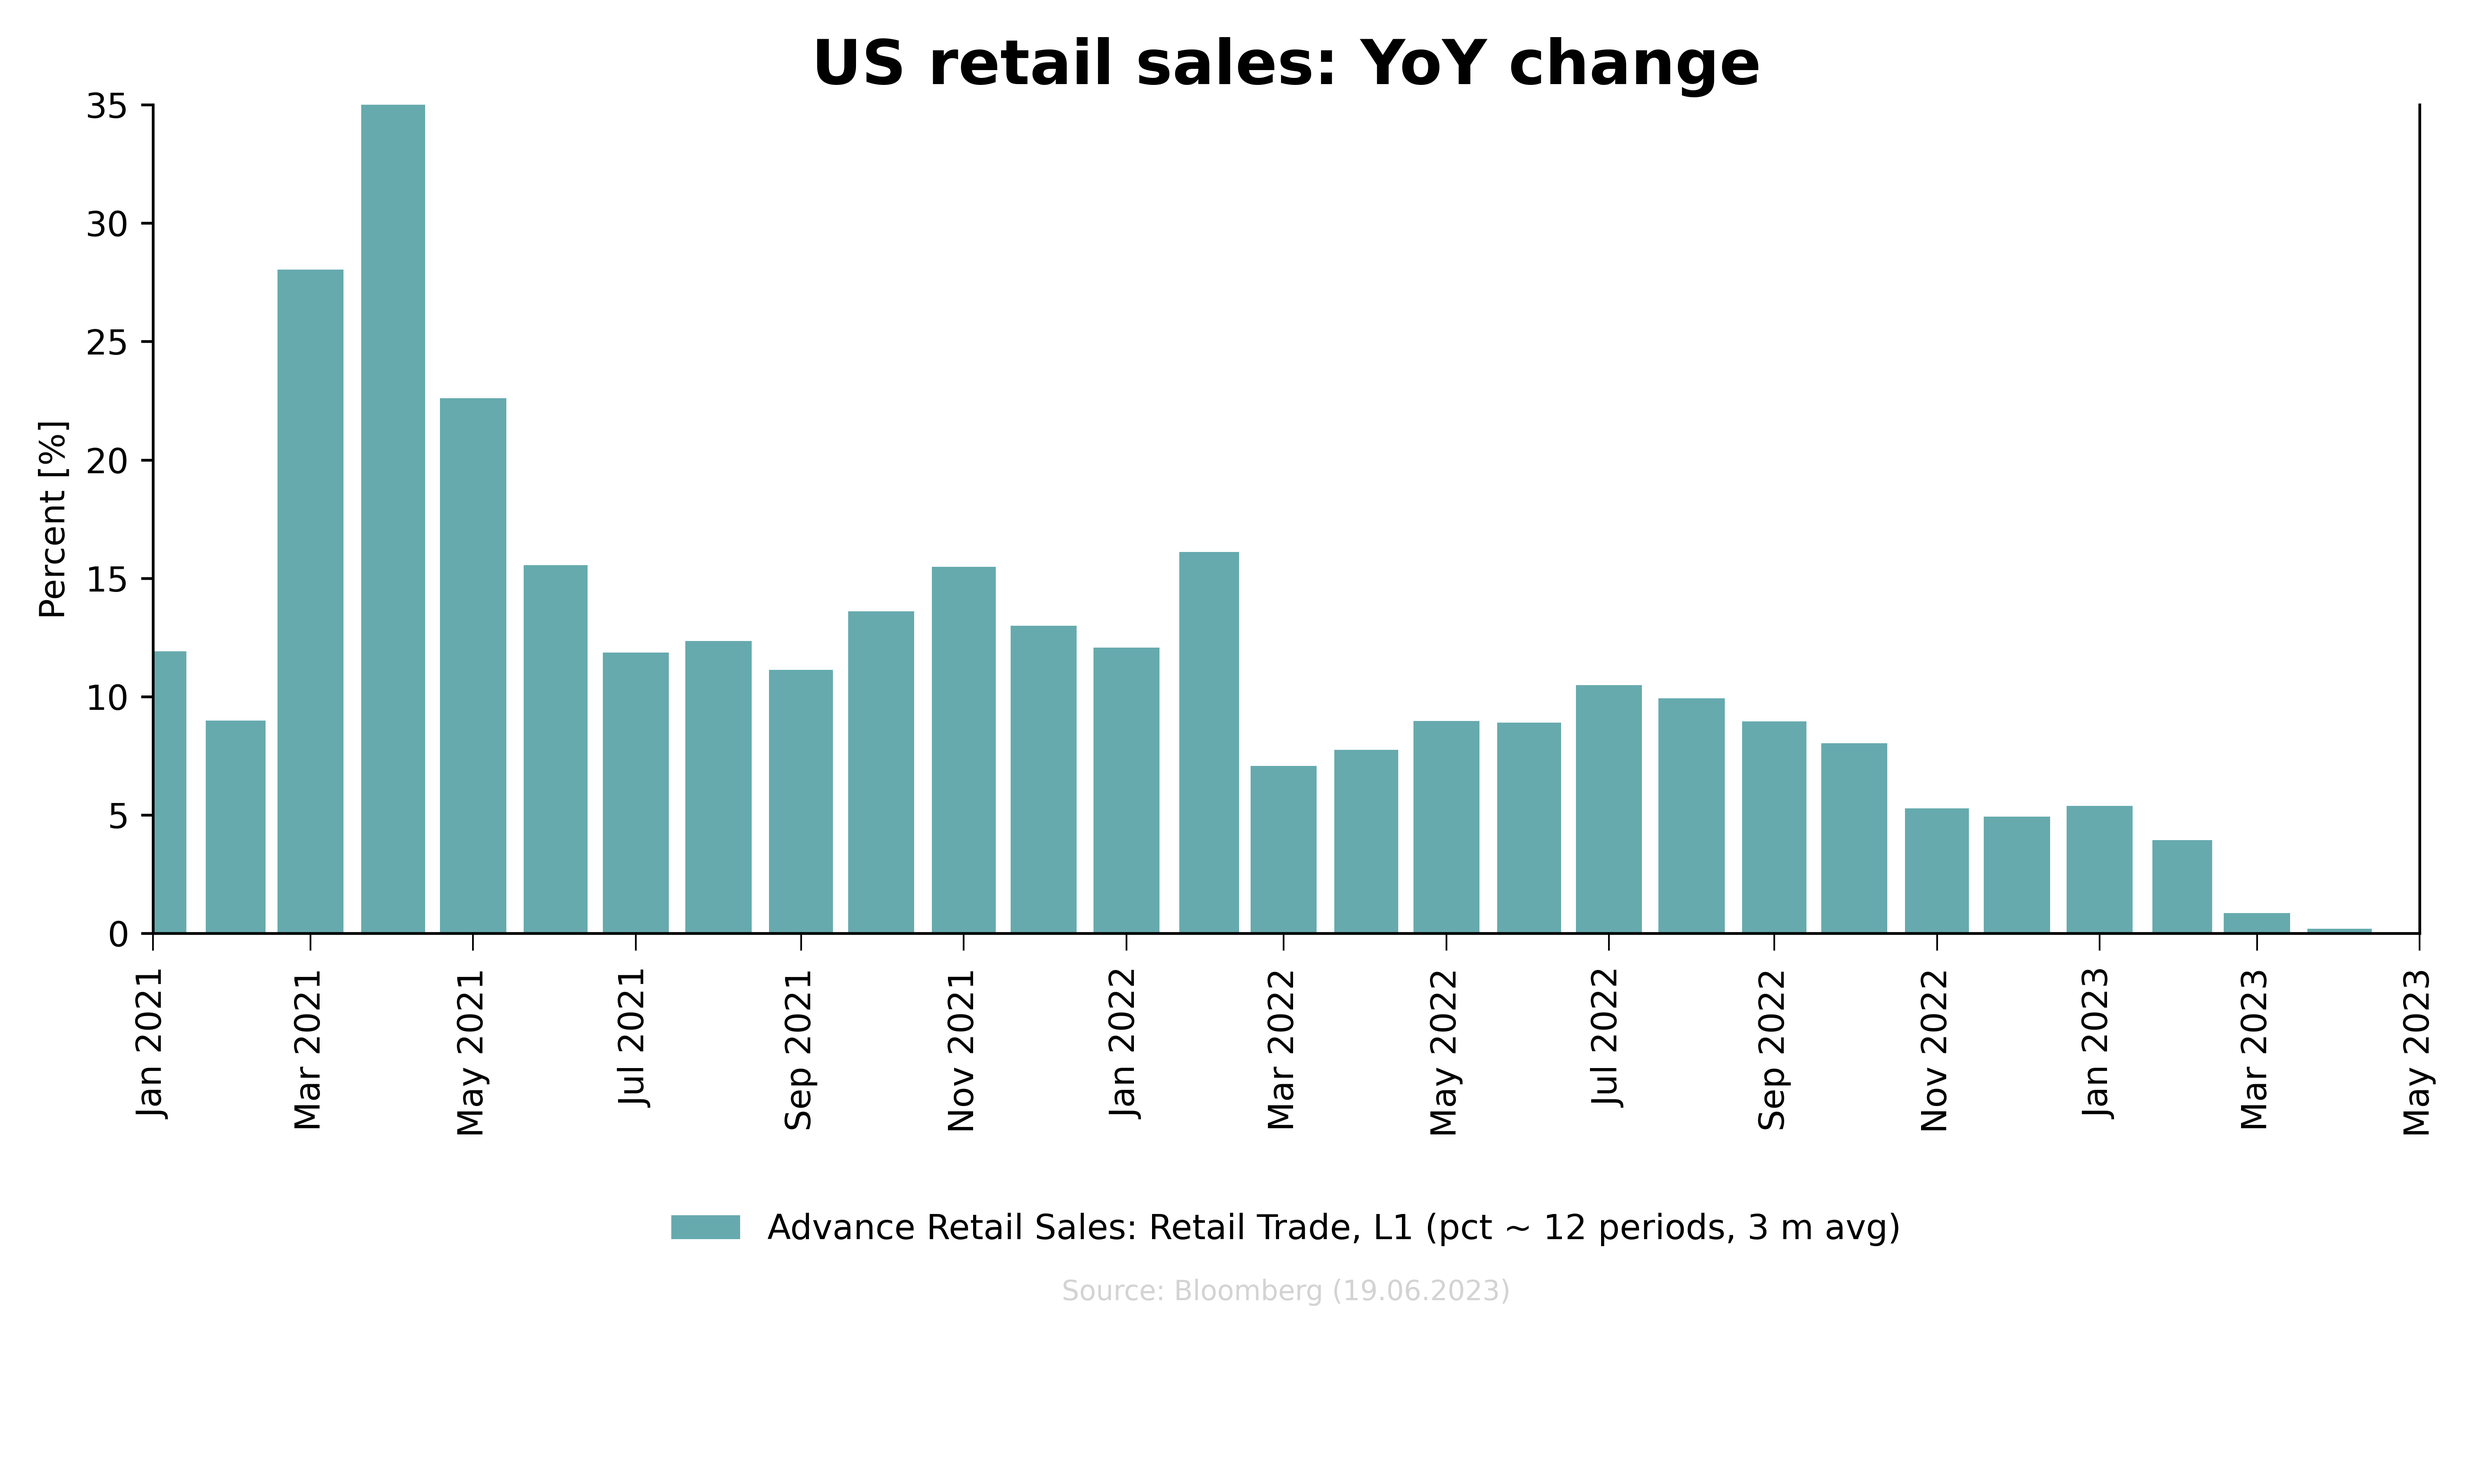
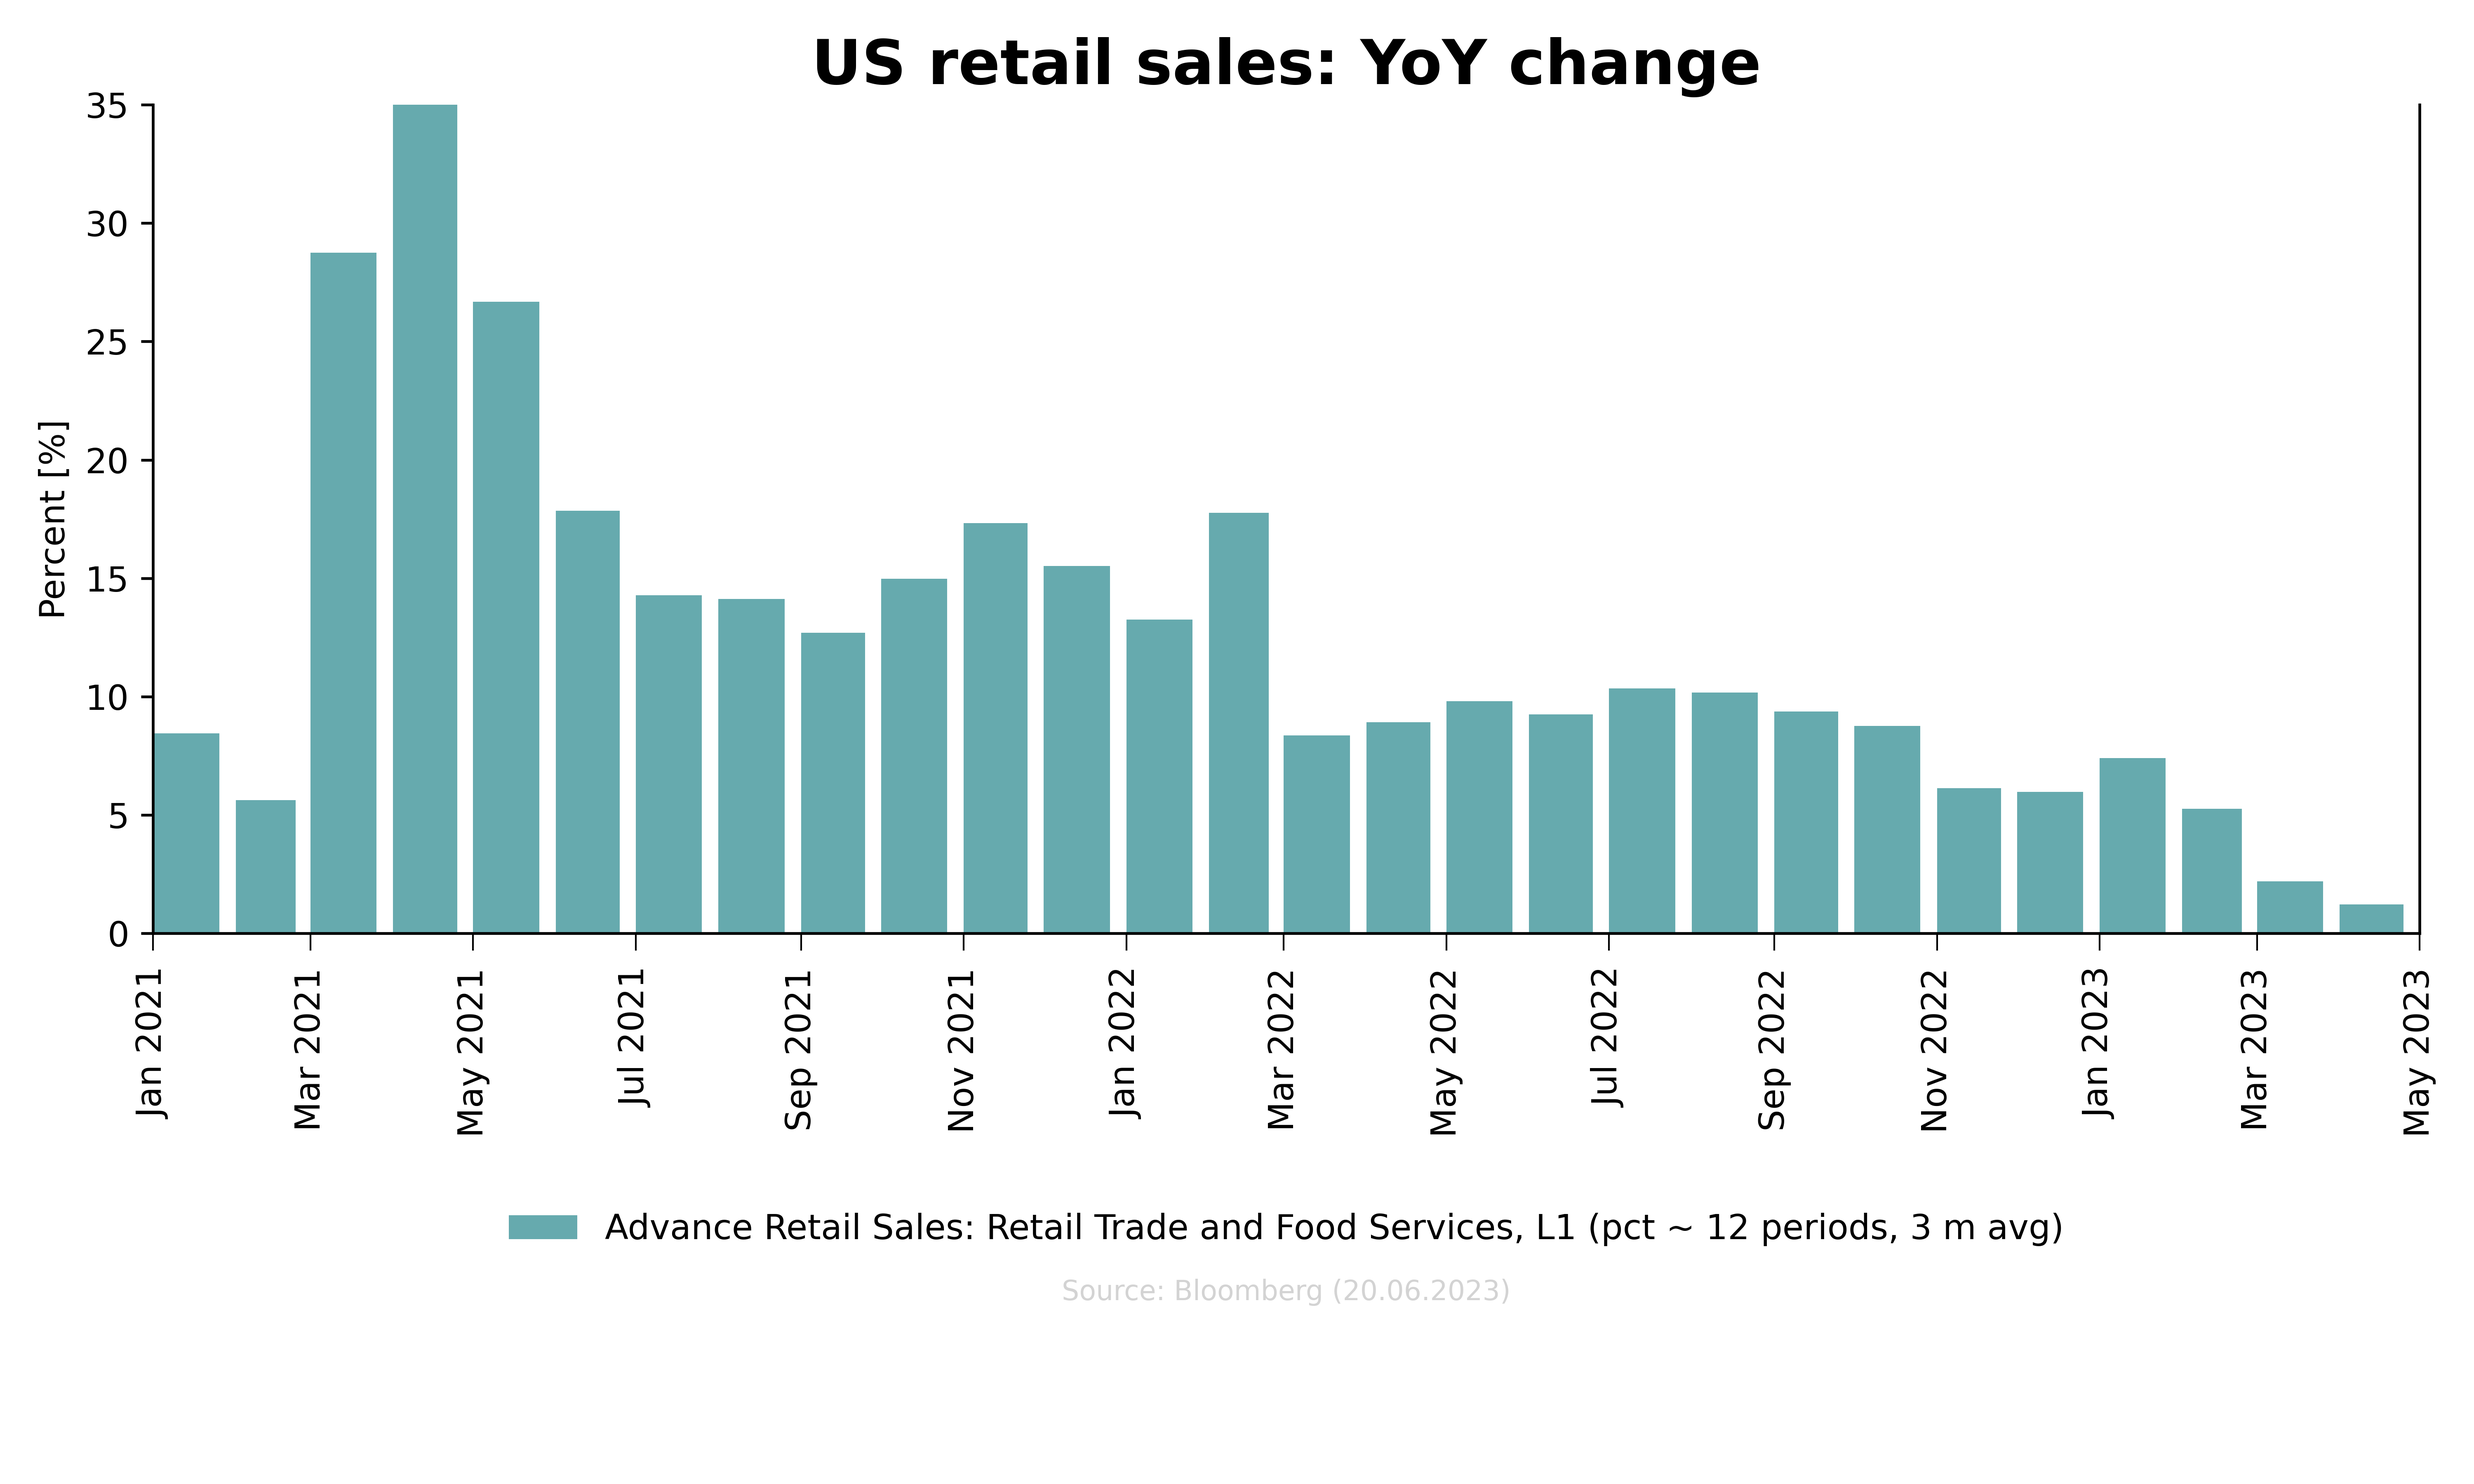
bar charts edge

Changed region(s): [[0.0623, 0.0622, 0.9662, 0.6533], [0.187, 0.8089, 0.8415, 0.84]]

diff --git a/charting/charts/time_series_chart.py b/charting/charts/time_series_chart.py
@@ -76,7 +76,7 @@ class TimeSeriesChart(Chart):
 
             for i, (idx, diff) in enumerate(zip(x, y)):
                 bar_width = get_bar_width(i)
-                handle = self.y_axes[y_axis].bar(x[i], diff, width=bar_width, bottom=bar_bottom, label=label,
+                handle = self.y_axes[y_axis].bar(x[i], diff, align='edge', width=bar_width, bottom=bar_bottom, label=label,
                                                  color=color, alpha=alpha)
         else:
             raise NotImplemented(f"Chart type '{chart_type} is not implemented yet!")

diff --git a/charting/model/chart.py b/charting/model/chart.py
@@ -99,6 +99,7 @@ class Chart(ABC):
             width (float): The width of the ticks in points (default: 0.5).
             rotation (float): The rotation angle of the tick labels in degrees (default: 0).
             pad (float): The padding between the ticks and the tick labels in points (default: 0).
+            pad (float): The padding between the ticks and the tick labels in points (default: 0).
         """
         self.ax.tick_params(axis='x', which=which, length=length, width=width, rotation=rotation, pad=pad)
 

diff --git a/examples/retail.py b/examples/retail.py
@@ -8,7 +8,7 @@ from examples.fred import get_data
 import matplotlib.dates as mdates
 
 if __name__ == '__main__':
-    d1, t1, a1 = get_data(series_id='RSXFS', observation_start="2020-01-01")  # RSXFS
+    d1, t1, a1 = get_data(series_id='RSAFS', observation_start="2020-01-01")  # RSAFS
 
     chart = TimeSeriesChart(title="US retail sales: YoY change",
                             figsize=(10, 6), num_y_axes=1)

diff --git a/examples/cpi.py b/examples/cpi.py
@@ -40,5 +40,5 @@ if __name__ == '__main__':
     chart.legend(frameon=False, ncol=2)
 
     # Save the plot
-    chart.plot(path="output/example.png")
+    chart.plot(path="output/cpi.png")
 

diff --git a/README.md b/README.md
@@ -56,12 +56,12 @@ chart.add_data(df.index, df['CLEVCPIA Index'], label="Federal Reserve Bank of Cl
 chart.legend(frameon=False, ncol=2)
 
 # Save the plot
-chart.plot(path="output/example.png")
+chart.plot(path="output/cpi.png")
 ```
 
 Result:
 
-![alt text](examples/output/example.png)
+![alt text](examples/output/cpi.png)
 
 ## Example 2
 
